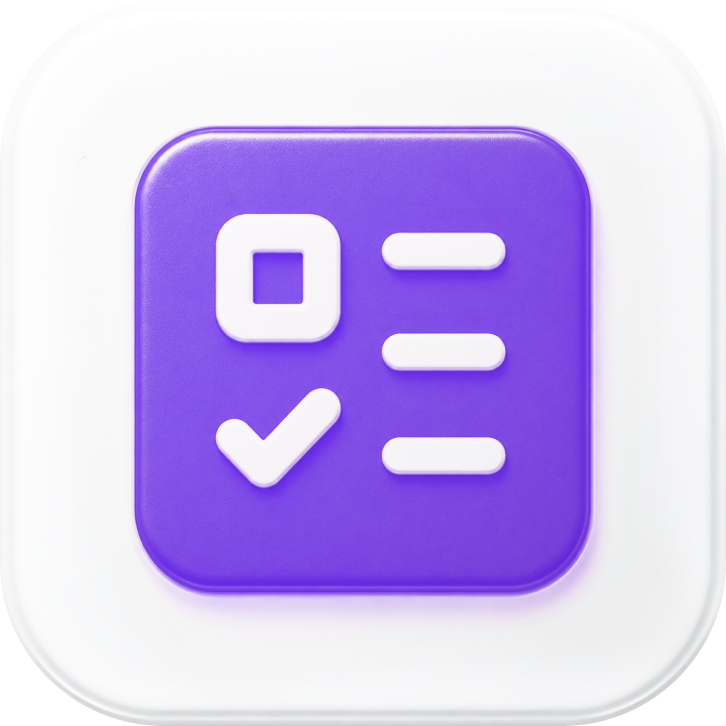
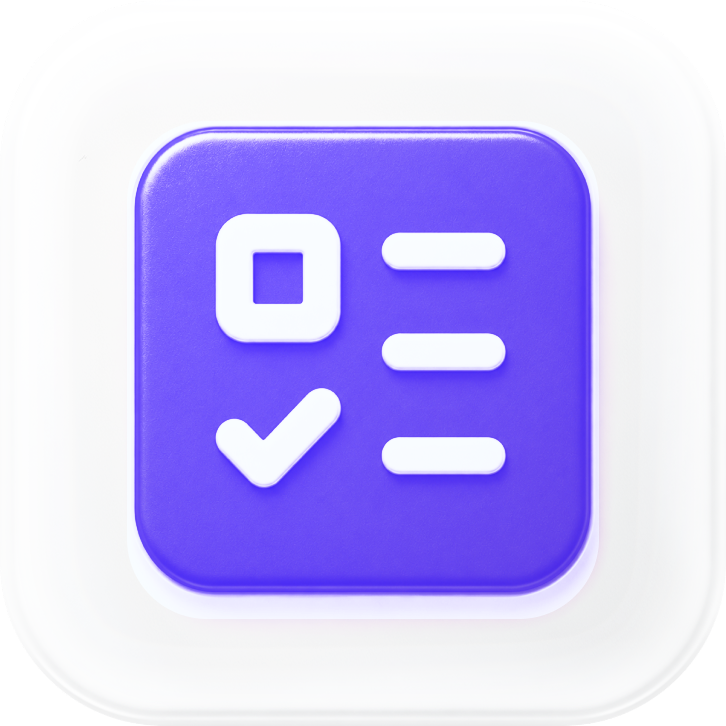
Polish dock and file manager UI

diff --git a/packages/workbench/surface/src/host/WorkbenchHostDock.tsx b/packages/workbench/surface/src/host/WorkbenchHostDock.tsx
@@ -180,7 +180,7 @@ export function WorkbenchHostDock({
       canScrollForward: false,
       hasOverflow: false
     }));
-  const [, setDockStateRevision] = useState(0);
+  const [dockStateRevision, setDockStateRevision] = useState(0);
   const [externalStateRevision, setExternalStateRevision] = useState(0);
   const [
     collapsingMinimizedLaunchAnchorKeys,
@@ -318,10 +318,14 @@ export function WorkbenchHostDock({
     });
   }, [dockStateSource]);
 
-  const renderedDockEntries = dockEntries.map((entry) => {
-    const dynamicState = dockStateSource?.getEntryState(entry.id);
-    return dynamicState ? { ...entry, ...dynamicState } : entry;
-  });
+  const renderedDockEntries = useMemo(
+    () =>
+      dockEntries.map((entry) => {
+        const dynamicState = dockStateSource?.getEntryState(entry.id);
+        return dynamicState ? { ...entry, ...dynamicState } : entry;
+      }),
+    [dockEntries, dockStateRevision, dockStateSource]
+  );
   const resolvedEntries = useMemo(
     () =>
       resolveWorkbenchDockEntries({
@@ -410,6 +414,24 @@ export function WorkbenchHostDock({
     ]
   );
 
+  const scheduleHoverPanelClose = useCallback(
+    (entryId?: string) => {
+      clearHoverPanelOpenTimer();
+      clearHoverPanelCloseTimer();
+      hoverPanelCloseTimerRef.current = setTimeout(() => {
+        hoverPanelCloseTimerRef.current = null;
+        closeHoverPanelImmediate(entryId);
+        handleDockPointerLeave();
+      }, dockHoverPanelCloseDelayMs);
+    },
+    [
+      clearHoverPanelCloseTimer,
+      clearHoverPanelOpenTimer,
+      closeHoverPanelImmediate,
+      handleDockPointerLeave
+    ]
+  );
+
   const showHoverPanel = useCallback(
     (entryId: string, anchorKey: string, anchorElement: HTMLElement): void => {
       const dockElement = dockMeasureRef.current;
@@ -486,6 +508,50 @@ export function WorkbenchHostDock({
         }
       }
       return null;
+    },
+    []
+  );
+
+  const isPointerInsideActiveHoverPanelRegion = useCallback(
+    (clientX: number, clientY: number): boolean => {
+      const activeHoverPanel = activeHoverPanelRef.current;
+      if (!activeHoverPanel) {
+        return false;
+      }
+
+      const anchorSlot = slotRefs.current.get(activeHoverPanel.anchorKey);
+      const panel = hoverPanelRef.current;
+      if (
+        !anchorSlot ||
+        !panel ||
+        !anchorSlot.isConnected ||
+        !panel.isConnected
+      ) {
+        return false;
+      }
+
+      const anchorRect = anchorSlot.getBoundingClientRect();
+      const panelRect = panel.getBoundingClientRect();
+      return (
+        rectContainsPoint(
+          anchorRect,
+          clientX,
+          clientY,
+          dockHoverPanelHitSlopPx
+        ) ||
+        rectContainsPoint(
+          panelRect,
+          clientX,
+          clientY,
+          dockHoverPanelHitSlopPx
+        ) ||
+        rectContainsPoint(
+          unionRects(anchorRect, panelRect),
+          clientX,
+          clientY,
+          dockHoverPanelBridgeSlopPx
+        )
+      );
     },
     []
   );
@@ -592,7 +658,11 @@ export function WorkbenchHostDock({
   const handleDockPointerTravel = useCallback(
     (clientX: number, clientY: number) => {
       if (activeHoverPanelRef.current !== null) {
-        closeHoverPanelImmediate();
+        if (isPointerInsideActiveHoverPanelRegion(clientX, clientY)) {
+          clearHoverPanelCloseTimer();
+          return;
+        }
+        scheduleHoverPanelClose(activeHoverPanelRef.current.entryId);
         handleDockPointerLeave();
         return;
       }
@@ -601,9 +671,11 @@ export function WorkbenchHostDock({
       scheduleHoverPanelAtPointAfterRest(clientX, clientY);
     },
     [
-      closeHoverPanelImmediate,
+      clearHoverPanelCloseTimer,
       handleDockPointerMove,
       handleDockPointerLeave,
+      isPointerInsideActiveHoverPanelRegion,
+      scheduleHoverPanelClose,
       scheduleHoverPanelAtPointAfterRest
     ]
   );
@@ -1392,7 +1464,7 @@ export function WorkbenchHostDock({
                   ) {
                     return;
                   }
-                  closeHoverPanelImmediate(activeHoverPanel.entryId);
+                  scheduleHoverPanelClose(activeHoverPanel.entryId);
                   handleDockPointerLeave();
                 }}
               />
@@ -2158,8 +2230,33 @@ function resolveWorkbenchHostDockItemsWidth(
 }
 
 const dockHoverPanelOpenDelayMs = 450;
+const dockHoverPanelCloseDelayMs = 160;
 const dockHoverPanelHitSlopPx = 12;
+const dockHoverPanelBridgeSlopPx = 6;
 const dockHoverPanelPointerRestTolerancePx = 4;
+
+function rectContainsPoint(
+  rect: DOMRect,
+  clientX: number,
+  clientY: number,
+  slopPx = 0
+): boolean {
+  return (
+    clientX >= rect.left - slopPx &&
+    clientX <= rect.right + slopPx &&
+    clientY >= rect.top - slopPx &&
+    clientY <= rect.bottom + slopPx
+  );
+}
+
+function unionRects(first: DOMRect, second: DOMRect): DOMRect {
+  const left = Math.min(first.left, second.left);
+  const top = Math.min(first.top, second.top);
+  const right = Math.max(first.right, second.right);
+  const bottom = Math.max(first.bottom, second.bottom);
+
+  return new DOMRect(left, top, right - left, bottom - top);
+}
 const dockPresenceAnimationMs = 300;
 const minimizedDockSlotLayoutAnimationMs = 720;
 const dockItemsGapPx = 10.8;

diff --git a/packages/ui/system/src/icons/system-icons.tsx b/packages/ui/system/src/icons/system-icons.tsx
@@ -89,6 +89,22 @@ export function PauseIcon(props: IconProps) {
   );
 }
 
+export function ViewGridLinedIcon(props: IconProps) {
+  return (
+    <FilledPathIcon {...props}>
+      <path d="M19 2C20.6569 2 22 3.34315 22 5V19C22 20.6569 20.6569 22 19 22H5C3.34315 22 2 20.6569 2 19V5C2 3.34315 3.34315 2 5 2H19ZM13 13V20H19C19.5523 20 20 19.5523 20 19V13H13ZM4 19C4 19.5523 4.44772 20 5 20H11V13H4V19ZM13 11H20V5C20 4.44772 19.5523 4 19 4H13V11ZM5 4C4.44772 4 4 4.44772 4 5V11H11V4H5Z" />
+    </FilledPathIcon>
+  );
+}
+
+export function ViewListLinedIcon(props: IconProps) {
+  return (
+    <FilledPathIcon {...props}>
+      <path d="M3.00977 18C3.56205 18 4.00977 18.4477 4.00977 19C4.00977 19.5523 3.56205 20 3.00977 20H3C2.44772 20 2 19.5523 2 19C2 18.4477 2.44772 18 3 18H3.00977ZM21 18C21.5523 18 22 18.4477 22 19C22 19.5523 21.5523 20 21 20H8C7.44772 20 7 19.5523 7 19C7 18.4477 7.44772 18 8 18H21ZM3.00977 11C3.56205 11 4.00977 11.4477 4.00977 12C4.00977 12.5523 3.56205 13 3.00977 13H3C2.44772 13 2 12.5523 2 12C2 11.4477 2.44772 11 3 11H3.00977ZM21 11C21.5523 11 22 11.4477 22 12C22 12.5523 21.5523 13 21 13H8C7.44772 13 7 12.5523 7 12C7 11.4477 7.44772 11 8 11H21ZM3.00977 4C3.56205 4 4.00977 4.44772 4.00977 5C4.00977 5.55228 3.56205 6 3.00977 6H3C2.44772 6 2 5.55228 2 5C2 4.44772 2.44772 4 3 4H3.00977ZM21 4C21.5523 4 22 4.44772 22 5C22 5.55228 21.5523 6 21 6H8C7.44772 6 7 5.55228 7 5C7 4.44772 7.44772 4 8 4H21Z" />
+    </FilledPathIcon>
+  );
+}
+
 export function FolderIcon(props: IconProps) {
   return (
     <FilledPathIcon {...props}>

diff --git a/packages/workbench/surface/src/host/WorkbenchHostDock.test.ts b/packages/workbench/surface/src/host/WorkbenchHostDock.test.ts
@@ -13,10 +13,13 @@ test("dock hover panels survive pointer travel from slot to panel", () => {
   );
   assert.doesNotMatch(source, /sideOffset=\{26\}/);
   assert.match(source, /const dockHoverPanelOpenDelayMs = 450;/);
+  assert.match(source, /const dockHoverPanelCloseDelayMs = 160;/);
+  assert.match(source, /const dockHoverPanelBridgeSlopPx = 6;/);
   assert.match(source, /const dockHoverPanelPointerRestTolerancePx = 4;/);
   assert.match(source, /const hoverPanelCloseTimerRef = useRef/);
   assert.match(source, /const hoverPanelScheduledPointRef = useRef/);
   assert.match(source, /const closeHoverPanelImmediate = useCallback/);
+  assert.match(source, /const scheduleHoverPanelClose = useCallback/);
   assert.match(source, /data-dock-hover-panel-open/);
   assert.match(source, /function dockEntryHasHoverPanel/);
   assert.match(
@@ -46,6 +49,13 @@ test("dock hover panels survive pointer travel from slot to panel", () => {
     source,
     /hoverPanelOpenTimerRef\.current !== null[\s\S]*?dockHoverPanelPointerRestTolerancePx[\s\S]*?return;/
   );
+  assert.match(
+    source,
+    /const isPointerInsideActiveHoverPanelRegion = useCallback/
+  );
+  assert.match(source, /rectContainsPoint\(\s*anchorRect,/);
+  assert.match(source, /rectContainsPoint\(\s*panelRect,/);
+  assert.match(source, /unionRects\(anchorRect, panelRect\)/);
   assert.match(
     source,
     /handleDockPointerMove\(clientX, clientY\);\s*scheduleHoverPanelAtPointAfterRest\(clientX, clientY\);/
@@ -109,7 +119,7 @@ test("dock hover panels survive pointer travel from slot to panel", () => {
   );
   assert.match(
     source,
-    /if \(activeHoverPanelRef\.current !== null\) \{[\s\S]*?closeHoverPanelImmediate\(\);[\s\S]*?handleDockPointerLeave\(\);/
+    /if \(activeHoverPanelRef\.current !== null\) \{[\s\S]*?isPointerInsideActiveHoverPanelRegion\(clientX, clientY\)[\s\S]*?clearHoverPanelCloseTimer\(\);[\s\S]*?return;[\s\S]*?scheduleHoverPanelClose\(activeHoverPanelRef\.current\.entryId\);[\s\S]*?handleDockPointerLeave\(\);/
   );
   assert.match(source, /setAttribute\("data-bouncing", "true"\)/);
   assert.doesNotMatch(source, /bouncingAnchorKeys/);
@@ -117,8 +127,10 @@ test("dock hover panels survive pointer travel from slot to panel", () => {
   assert.match(source, /hoverPanelRef\.current\?\.contains\(relatedTarget\)/);
   assert.match(
     source,
-    /onPointerLeave=\{\(event\) => \{[\s\S]*?closeHoverPanelImmediate\(activeHoverPanel\.entryId\);/
+    /onPointerLeave=\{\(event\) => \{[\s\S]*?scheduleHoverPanelClose\(activeHoverPanel\.entryId\);/
   );
+  assert.match(source, /function rectContainsPoint/);
+  assert.match(source, /function unionRects/);
   assert.doesNotMatch(source, /\[dock-hover\]/);
   assert.doesNotMatch(
     source,

diff --git a/packages/workspace/file-manager/src/ui/WorkspaceFileManagerToolbar.tsx b/packages/workspace/file-manager/src/ui/WorkspaceFileManagerToolbar.tsx
@@ -2,10 +2,10 @@ import {
   ArrowLeftIcon,
   ArrowRightIcon,
   Button,
-  GridHorizontalLinedIcon,
-  LayoutMenuIcon,
   LoadingIcon,
   RefreshIcon,
+  ViewGridLinedIcon,
+  ViewListLinedIcon,
   cn
 } from "@tutti-os/ui-system";
 import { useState, type ReactElement } from "react";
@@ -139,7 +139,7 @@ function LayoutModeToggle({
           onLayoutModeChange("icon");
         }}
       >
-        <LayoutMenuIcon className="size-3.5" />
+        <ViewGridLinedIcon className="size-4" />
       </LayoutModeButton>
       <LayoutModeButton
         active={layoutMode === "list"}
@@ -148,7 +148,7 @@ function LayoutModeToggle({
           onLayoutModeChange("list");
         }}
       >
-        <GridHorizontalLinedIcon className="size-3.5" />
+        <ViewListLinedIcon className="size-4" />
       </LayoutModeButton>
     </div>
   );
@@ -170,9 +170,9 @@ function LayoutModeButton({
       aria-label={ariaLabel}
       aria-pressed={active}
       className={cn(
-        "size-6 min-w-6 rounded-[4px] p-0 text-[var(--text-secondary)]",
+        "size-6 min-w-6 rounded-[4px] p-0 text-text-secondary",
         active &&
-          "bg-[var(--background-fronted)] text-[var(--text-primary)] shadow-sm"
+          "!bg-background-fronted text-foreground hover:!bg-background-fronted"
       )}
       size="icon-sm"
       title={ariaLabel}

diff --git a/apps/ui-storyboard/src/storyboardTheme.ts b/apps/ui-storyboard/src/storyboardTheme.ts
@@ -67,7 +67,7 @@ const storyboardLightThemeVars = {
   "--backdrop": "rgba(255, 255, 255, 0.60)",
   "--backdrop-dark": "rgba(0, 0, 0, 0.60)",
   "--rich-text-mention-app": "rgb(191, 90, 242)",
-  "--rich-text-mention-issue": "rgb(109, 127, 245)",
+  "--rich-text-mention-issue": "var(--tutti-purple)",
   "--rich-text-mention-session": "rgb(34, 197, 94)",
   "--folder": "rgb(80, 175, 238)",
   "--rich-text-folder": "rgb(80, 175, 238)",
@@ -121,7 +121,7 @@ const storyboardDarkThemeVars = {
   "--backdrop": "rgba(0, 0, 0, 0.60)",
   "--backdrop-dark": "rgba(0, 0, 0, 0.60)",
   "--rich-text-mention-app": "rgb(191, 90, 242)",
-  "--rich-text-mention-issue": "rgb(109, 127, 245)",
+  "--rich-text-mention-issue": "var(--tutti-purple)",
   "--rich-text-mention-session": "rgb(74, 222, 128)",
   "--folder": "rgb(80, 175, 238)",
   "--rich-text-folder": "rgb(80, 175, 238)",

diff --git a/packages/ui/system/src/styles/theme.css b/packages/ui/system/src/styles/theme.css
@@ -48,7 +48,7 @@
   --text-secondary: rgb(60 60 60 / 70%);
   --text-disabled: rgb(60 60 60 / 30%);
   --rich-text-mention-app: rgb(191, 90, 242);
-  --rich-text-mention-issue: rgb(109, 127, 245);
+  --rich-text-mention-issue: var(--tutti-purple);
   --rich-text-mention-session: rgb(34, 197, 94);
   --folder: rgb(80, 175, 238);
   --rich-text-folder: rgb(80, 175, 238);
@@ -234,7 +234,7 @@
   --text-secondary: rgb(255 255 255 / 70%);
   --text-disabled: rgb(255 255 255 / 30%);
   --rich-text-mention-app: rgb(191, 90, 242);
-  --rich-text-mention-issue: rgb(109, 127, 245);
+  --rich-text-mention-issue: var(--tutti-purple);
   --rich-text-mention-session: rgb(74, 222, 128);
   --folder: rgb(80, 175, 238);
   --rich-text-folder: rgb(80, 175, 238);

diff --git a/packages/ui/system/src/components/style-contracts.test.ts b/packages/ui/system/src/components/style-contracts.test.ts
@@ -164,7 +164,7 @@ test("Chinese language contexts use the CJK font stack and medium weights", () =
   );
   assert.match(
     themeSource,
-    /--rich-text-mention-issue:\s*rgb\(109, 127, 245\)/
+    /--rich-text-mention-issue:\s*var\(--tutti-purple\)/
   );
   assert.match(themeSource, /--accent-claude:\s*rgb\(251 111 62\)/);
   assert.match(themeSource, /--folder:\s*rgb\(80, 175, 238\)/);